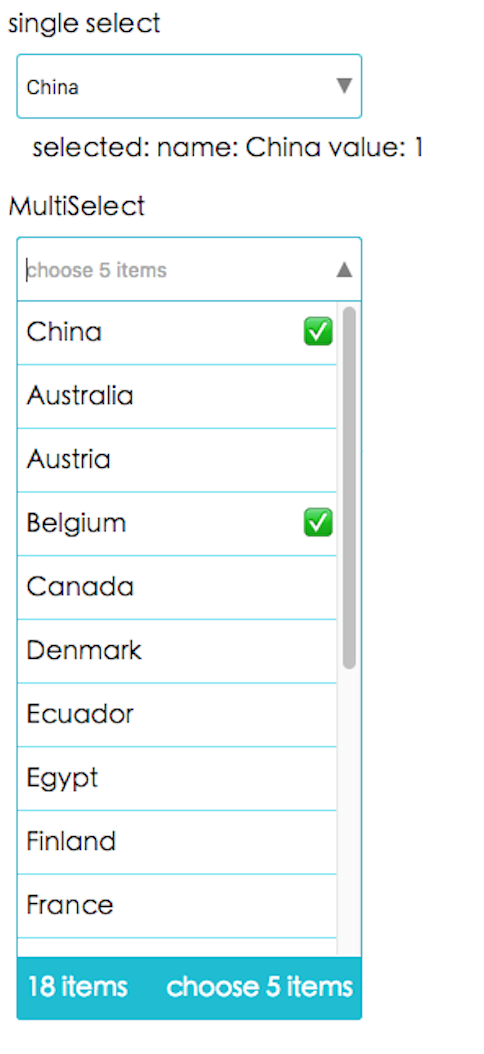
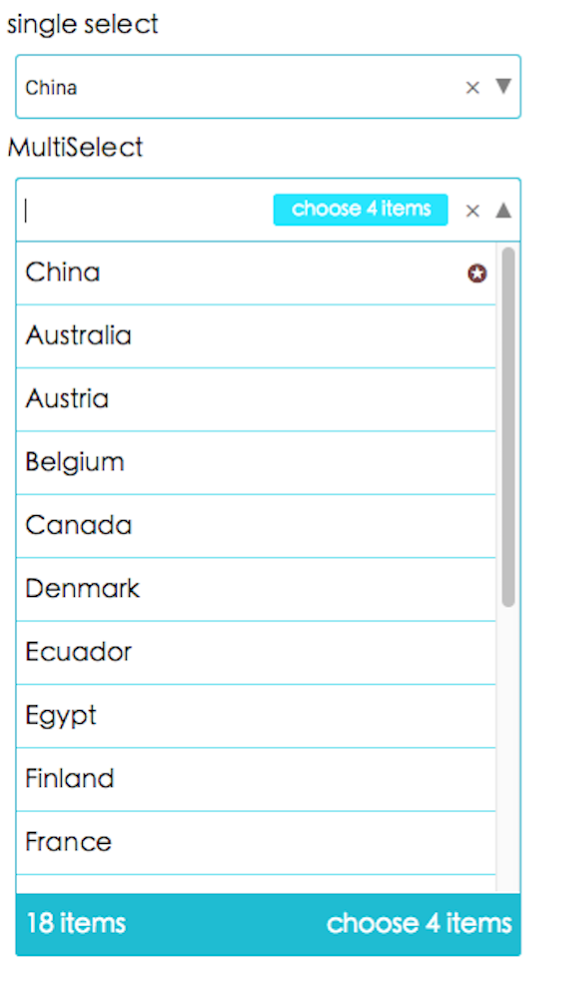
fix options style && update docs

Changed region(s): [[0.0, 0.0, 0.8988, 0.9841]]

diff --git a/src/AwesomeSelect.js b/src/AwesomeSelect.js
@@ -213,7 +213,7 @@ export default class AwesomeSelect extends Component {
     const { data, style, mult } = this.state;
     let optionsWidth = {};
     if (style.width) {
-      optionsWidth = Number(style.width.split(`px`)[0]) + 10;
+      optionsWidth = Number(style.width.split(`px`)[0]) + 160;
     }
     return (
       <div

diff --git a/lib/AwesomeSelect.js b/lib/AwesomeSelect.js
@@ -277,7 +277,7 @@ var AwesomeSelect = function (_Component) {
 
       var optionsWidth = {};
       if (style.width) {
-        optionsWidth = Number(style.width.split('px')[0]) + 10;
+        optionsWidth = Number(style.width.split('px')[0]) + 160;
       }
       return _react2.default.createElement(
         'div',
